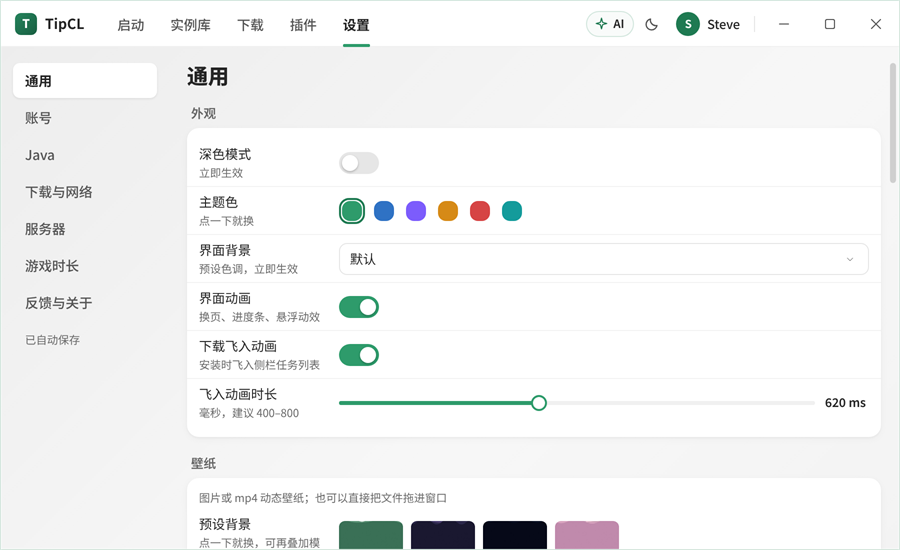
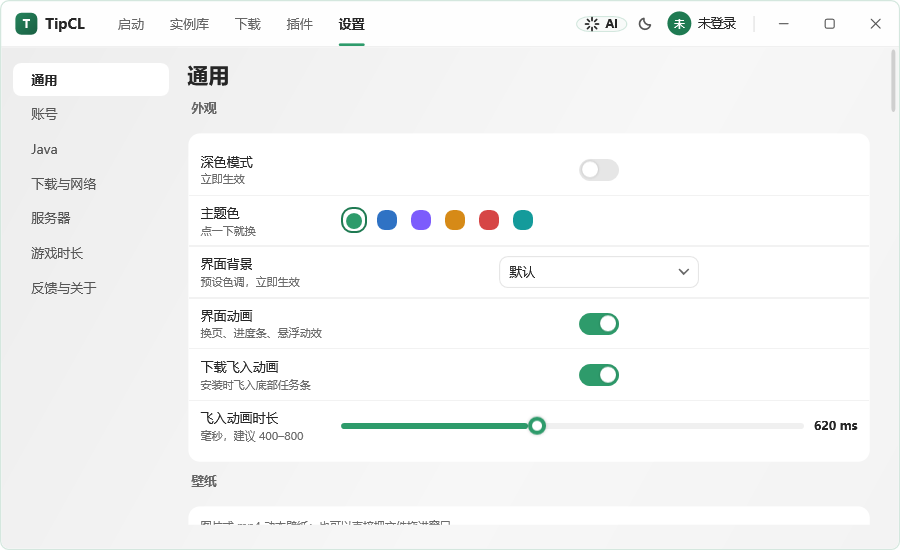
文案与资产:settings 页截图按新口径重生成(44068 B,sha256 D8915ABE…)+ 清掉移植侧最后两处「侧栏」旧说法

diff --git a/src/TipCL.App/Pages/Settings/SettingsPage.cs b/src/TipCL.App/Pages/Settings/SettingsPage.cs
@@ -263,7 +263,7 @@ public sealed partial class SettingsPage : PageBase
             UiClass.Field("主题色", _swatches, "点一下就换"),
             UiClass.Field("界面背景", _bg, "预设色调，立即生效"),
             UiClass.Field("界面动画", _motion, "换页、进度条、悬浮动效"),
-            UiClass.Field("下载飞入动画", _fly, "安装时飞入侧栏任务列表"),
+            UiClass.Field("下载飞入动画", _fly, "安装时飞入底部任务条"),
             UiClass.Field("飞入动画时长", SliderRow(_flyDur, _flyDurLbl), "毫秒，建议 400–800")));
         BuildSwatches();
 

diff --git a/src/TipCL.App/Pages/Plugins/PluginModels.cs b/src/TipCL.App/Pages/Plugins/PluginModels.cs
@@ -238,7 +238,7 @@ public sealed class UiContribution
     /// <summary>插件+类型+id，界面缓存用的键。</summary>
     public string Key => Plugin + "|" + Kind + "|" + Id;
 
-    /// <summary>侧栏 / 页面 id：plugin:&lt;plugin&gt;:&lt;id&gt;。</summary>
+    /// <summary>顶栏页签 / 页面 id：plugin:&lt;plugin&gt;:&lt;id&gt;。</summary>
     public string PageId => "plugin:" + Plugin + ":" + Id;
 
     public string Group => J.Str(Spec, "group", "more");
